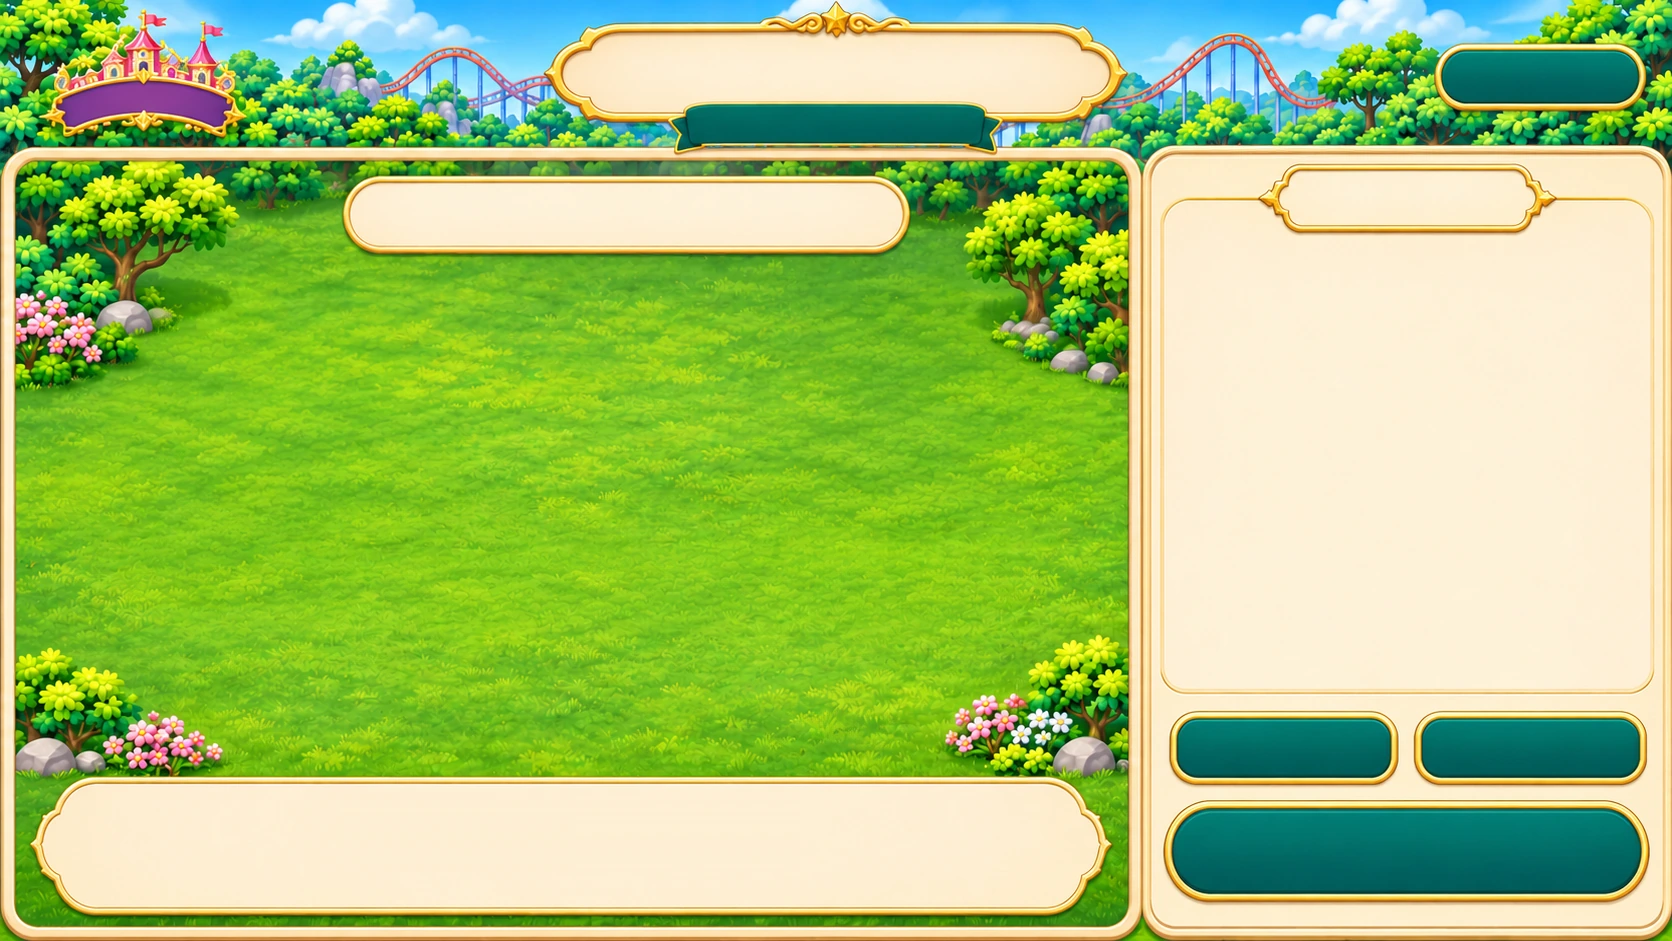
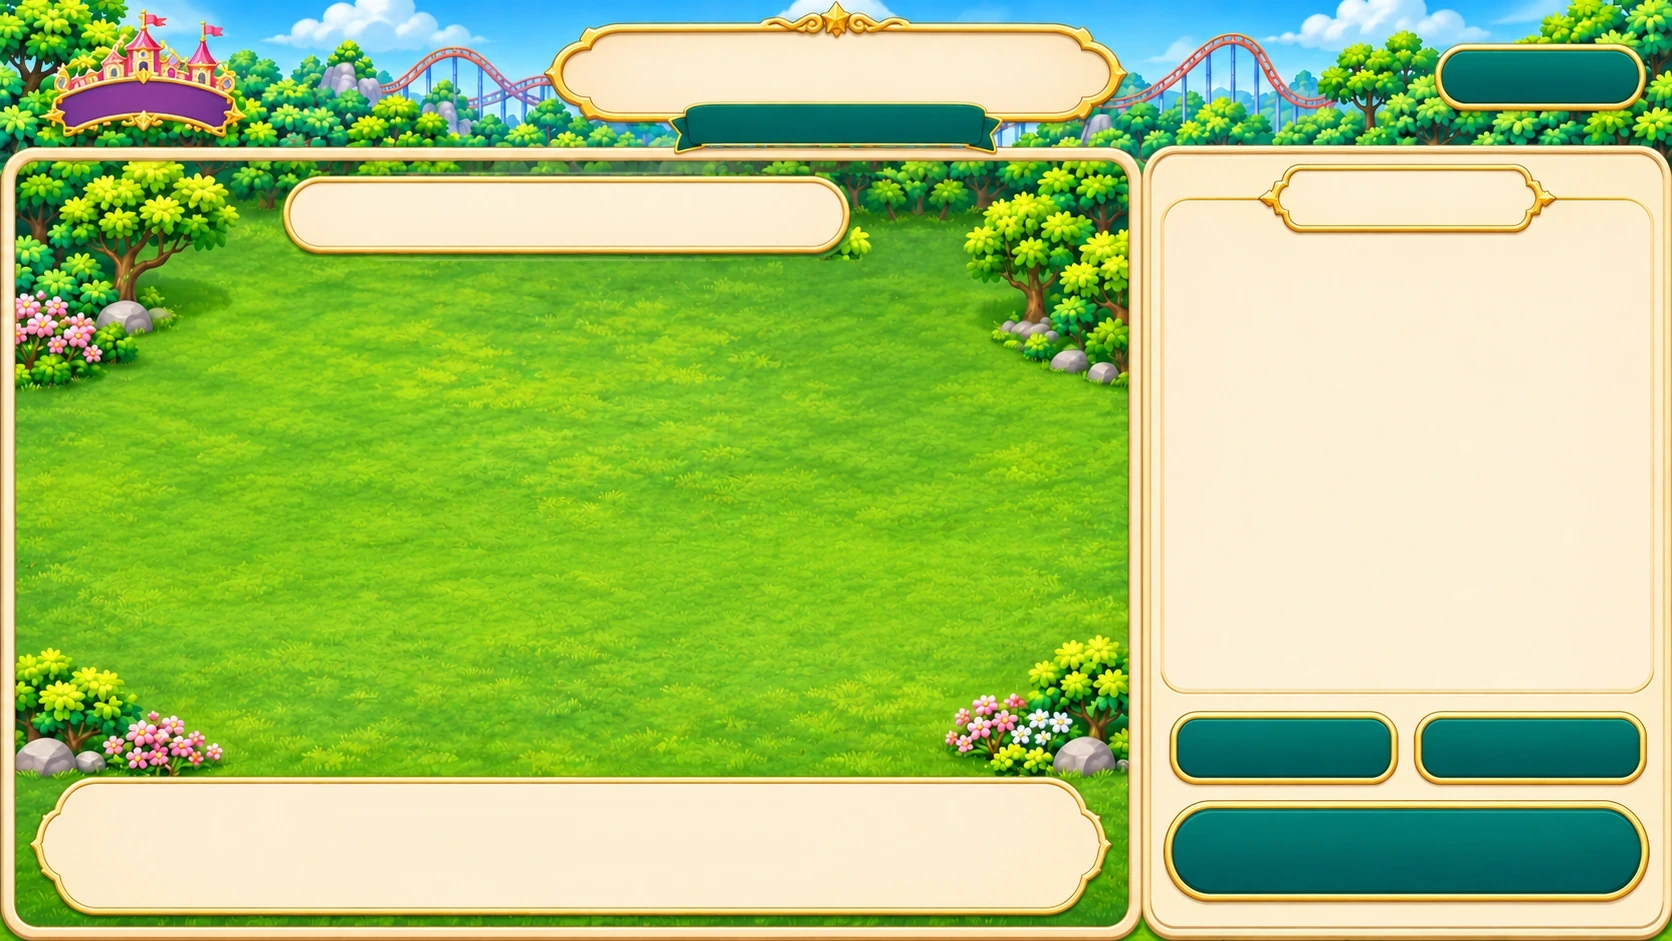
코스터 화면 글자 가운데 맞추기와 안내 띠 위치 고치기
- 제목·미션 리본·내 명령·안내판·출발/도착 글자를 판 가운데에 맞춤(글자 위치를 재서 보정)
- 미션 안내판 그림을 게임 영역 가운데로 옮김
- 티켓 표시를 테두리 안쪽으로, 상태 안내 띠를 레일 아래 빈 줄로 옮김
- 역 글자 크기를 역 크기에 맞춰 바뀌게 함, 못 누르는 미션 이동 버튼은 숨김

Changed region(s): [[0.1555, 0.1849, 0.2799, 0.2774], [0.4665, 0.1849, 0.5598, 0.2774]]

diff --git a/css/coaster.css b/css/coaster.css
@@ -16,13 +16,17 @@
 
 /* 위쪽 */
 .cs-course { left: 3.95%; top: 9.4%; width: 9.8%; text-align: center; font-size: 1.05cqw; color: #fff4c9; text-shadow: 0 0.1cqw 0 #4a2370; white-space: nowrap; }
-.cs-tickets { left: 1.6%; top: 15.6%; padding: 0.25cqw 0.9cqw; border-radius: 99px; background: rgba(255, 248, 228, 0.92); border: 0.12cqw solid #e2b357; font-size: 1.05cqw; color: #6e4b2f; }
-.cs-title { left: 33.2%; top: 3.6%; width: 33.8%; text-align: center; font-weight: 400; font-size: 2.6cqw; color: #4a2a14; letter-spacing: 0.05cqw; }
-.cs-ribbon { left: 37.6%; top: 11%; width: 24.8%; height: 5%; display: flex; align-items: center; justify-content: space-between; }
-.cs-ribbon p { flex: 1; text-align: center; color: #fff6d8; font-size: 1.45cqw; line-height: 1; white-space: nowrap; overflow: hidden; text-overflow: ellipsis; }
+.cs-tickets { left: 1.9%; top: 17.6%; padding: 0.25cqw 0.9cqw; border-radius: 99px; background: rgba(255, 248, 228, 0.92); border: 0.12cqw solid #e2b357; font-size: 1.05cqw; color: #6e4b2f; }
+.cs-title { left: 32.8%; top: 3.2%; width: 34.5%; height: 7.6%; display: flex; align-items: center; justify-content: center; line-height: 1; font-weight: 400; font-size: 2.6cqw; color: #4a2a14; letter-spacing: 0.05cqw; }
+.cs-ribbon { left: 40.4%; top: 11.2%; width: 19.1%; height: 3.9%; }
+.cs-ribbon p { position: absolute; inset: 0; margin: 0; display: flex; align-items: center; justify-content: center; }
+.cs-ribbon .cs-nav { position: absolute; top: 50%; transform: translateY(-50%); }
+#csPrev { right: calc(100% + 2.4cqw); }
+#csNext { left: calc(100% + 2.4cqw); }
+.cs-ribbon p { text-align: center; color: #fff6d8; font-size: 1.45cqw; line-height: 1; white-space: nowrap; overflow: hidden; text-overflow: ellipsis; }
 .cs-missionno { font-size: 0.9cqw; opacity: 0.85; margin-left: 0.5cqw; }
 .cs-nav { font: inherit; font-size: 0.9cqw; width: 2.2cqw; height: 2.2cqw; border-radius: 50%; border: 0.12cqw solid #e2b357; background: #fff8e8; color: #12837a; cursor: pointer; padding: 0; }
-.cs-nav:disabled { opacity: 0.35; cursor: default; }
+.cs-nav:disabled { visibility: hidden; }
 
 /* 그림에 그려진 청록 버튼 위에 투명하게 올리는 실제 버튼 */
 .cs-over { font: inherit; color: #fff6d8; background: transparent; border: 0; cursor: pointer; text-shadow: 0 0.12cqw 0 rgba(0, 50, 45, 0.55); border-radius: 99px; padding: 0; }
@@ -35,12 +39,12 @@
 .cs-run { left: 69.9%; top: 85.4%; width: 28.6%; height: 10%; font-size: 2.4cqw; }
 
 /* 왼쪽: 안내 · 게임 영역 · 명령 버튼 */
-.cs-guide { left: 20.6%; top: 19.1%; width: 33.7%; height: 7.4%; display: flex; align-items: center; justify-content: center; font-size: 1.6cqw; text-align: center; }
-.cs-board { left: 1.79%; top: 27.84%; width: 64.89%; height: 53.99%; }
+.cs-guide { left: 17.4%; top: 18.7%; width: 32.9%; height: 8.3%; line-height: 1.2; display: flex; align-items: center; justify-content: center; font-size: 1.6cqw; text-align: center; }
+.cs-board { left: 1.79%; top: 27.84%; width: 64.89%; height: 47.82%; }
 .cs-board > div { position: absolute; }
 .cs-board img { display: block; width: 100%; height: 100%; }
-.cs-station { z-index: 1; }
-.cs-sign { position: absolute; left: 30%; top: 41%; width: 40%; height: 15%; display: flex; align-items: center; justify-content: center; font-size: 1.15cqw; color: #4a2a14; }
+.cs-station { z-index: 1; container-type: inline-size; }
+.cs-sign { position: absolute; left: 31.4%; top: 42.5%; width: 37.1%; height: 13.8%; line-height: 1; display: flex; align-items: center; justify-content: center; font-size: 6.7cqw; color: #4a2a14; }
 .cs-rail { z-index: 2; pointer-events: none; }
 .cs-mark { z-index: 3; border-radius: 50%; border: 0.14cqw solid rgba(255, 255, 255, 0.45); background: rgba(255, 255, 255, 0.14); }
 .cs-mark.is-start, .cs-mark.is-goal { border-color: rgba(255, 238, 170, 0.8); }
@@ -54,9 +58,9 @@
 .cs-cart.turning { animation: cs-turn 0.4s ease-out; }
 @keyframes cs-turn { 0% { transform: scale(0.85) rotate(-6deg); } 60% { transform: scale(1.08); } 100% { transform: none; } }
 .cs-status {
-  left: 4%; top: 77.2%; width: 60.5%; min-height: 3.6%; z-index: 6; display: flex; align-items: center; gap: 0.6cqw;
+  left: 4%; bottom: 18%; width: 60.5%; min-height: 3.6%; z-index: 6; display: flex; align-items: center; gap: 0.6cqw;
   padding: 0.35cqw 1cqw; border-radius: 1cqw; font-size: 1.15cqw; line-height: 1.3;
-  background: rgba(255, 250, 238, 0.95); box-shadow: 0 0.2cqw 0.6cqw rgba(0, 0, 0, 0.15); transform: translateY(-100%);
+  background: rgba(255, 250, 238, 0.95); box-shadow: 0 0.2cqw 0.6cqw rgba(0, 0, 0, 0.15);
 }
 .cs-status:empty { display: none; }
 .cs-sicon { flex: none; display: inline-grid; place-items: center; width: 1.6cqw; height: 1.6cqw; border-radius: 50%; color: #fff; font-size: 0.95cqw; }
@@ -77,7 +81,7 @@
 .cs-limit { font-size: 1.05cqw; color: #6e4b2f; }
 
 /* 오른쪽: 내 명령 */
-.cs-listtitle { left: 77%; top: 18.2%; width: 14.6%; text-align: center; font-weight: 400; font-size: 1.6cqw; }
+.cs-listtitle { left: 75.5%; top: 17.2%; width: 16.9%; height: 7.4%; display: flex; align-items: center; justify-content: center; line-height: 1; font-weight: 400; font-size: 1.6cqw; }
 .cs-list { left: 70.3%; top: 25.8%; width: 28.4%; height: 42.6%; overflow-y: auto; overscroll-behavior: contain; padding-right: 0.4cqw; }
 .cs-empty { margin: 1cqw 0.6cqw; font-size: 1.1cqw; color: #8a6a4a; line-height: 1.5; }
 .cs-blocks { list-style: none; margin: 0; padding: 0; display: flex; flex-direction: column; gap: 0.35cqw; }
@@ -128,3 +132,9 @@
 .coaster-overlay button:focus-visible { outline: 0.25cqw solid #6a3d9a; outline-offset: 0.15cqw; }
 body.coaster-open #hud, body.coaster-open #enterFacility { display: none !important; }
 @media (prefers-reduced-motion: reduce) { .cs-cart.turning, .cs-success-card { animation: none; } }
+
+/* 둥근 글꼴(Jua)은 글자가 줄 상자 위쪽에 붙어 보여서, 판 가운데에 오도록 아래로 살짝 내림 (헤드리스 크롬에서 잉크 위치를 재서 맞춤) */
+.cs-title, .cs-listtitle, .cs-guide, .cs-sign, .cs-ribbon p { box-sizing: border-box; padding-top: 0.22em; }
+.cs-tickets { padding-top: 0.4cqw; padding-bottom: 0.15cqw; }
+.cs-course { padding-top: 0.15em; }
+.cs-over { box-sizing: border-box; padding-top: 0.12em; }

diff --git a/js/coaster/ui.js b/js/coaster/ui.js
@@ -20,7 +20,7 @@
   var CART = { E: 'cart-right', W: 'cart-left', N: 'cart-up', S: 'cart-down' };
   var DIR_KO = { E: '오른쪽', W: '왼쪽', N: '위쪽', S: '아래쪽' };
   // 게임 영역(빈 화면 그림의 잔디 안쪽, 안내 띠 아래) — 그림 좌표
-  var BOARD = { x: 30, y: 262, w: 1085, h: 508 };
+  var BOARD = { x: 30, y: 262, w: 1085, h: 450 };
 
   var ui = {}, S = { marks: {},
     course: 'low', list: [], idx: 0, mission: null, program: [], target: 'main',
